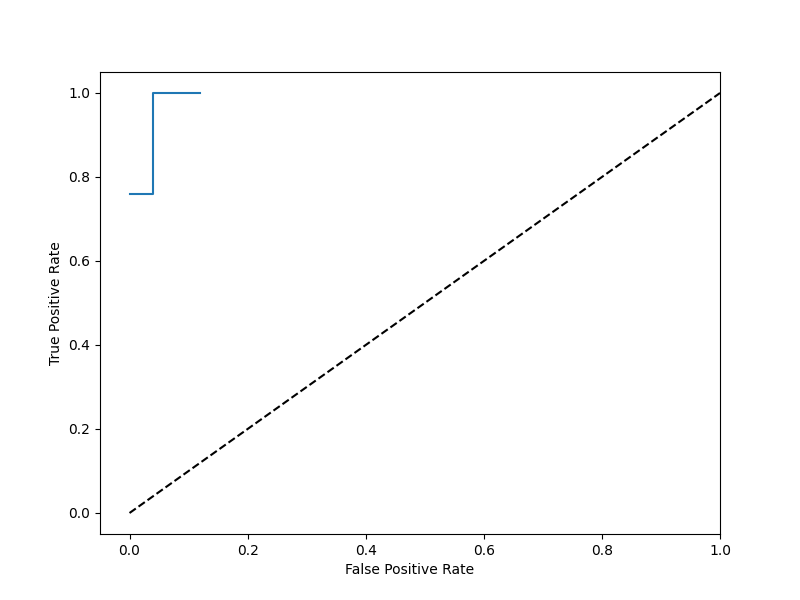
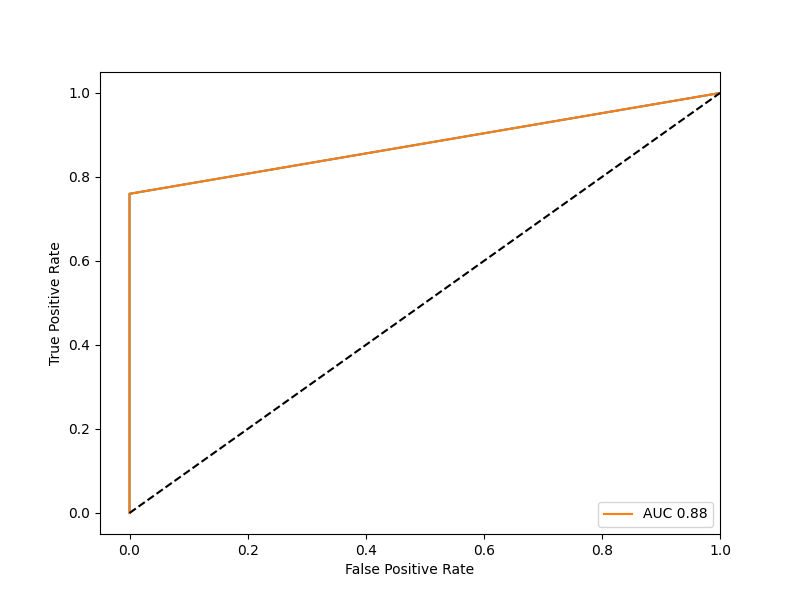
suka bledddddddd

diff --git a/hw2/main.py b/hw2/main.py
@@ -136,17 +136,19 @@ step1 = LDA(np.array([i[:] for i in train_datas]), np.array([len(i) for i in tra
 print("step1:" ,step1)
 tpr = []
 fpr = []
-for i in np.arange(0.01,10,0.01):
+for i in np.arange(0.000000001,1000000,10):
     tp,tn,fp,fn = step1.get_tp_tn_fp_fn(np.array([i[:] for i in test_datas]), np.array([len(i) for i in test_datas]), i)
     tpr.append(tp/(tp+fn))
     fpr.append(fp/(fp+tn))
 plt.figure(figsize=(8, 6))
 plt.plot(fpr, tpr)
+plt.plot(fpr, tpr, label=f'AUC {-round(np.trapz(tpr, fpr), 2)}')
 plt.plot([0, 1], [0, 1], 'k--')
 plt.xlim([-0.05, 1.0])
 plt.ylim([-0.05, 1.05])
 plt.xlabel('False Positive Rate')
 plt.ylabel('True Positive Rate')
+plt.legend(loc="lower right")
 plt.savefig("step1.png")
 plt.clf()
 step3 = LDA(np.array([i[2:] for i in train_datas]), np.array([len(i) for i in train_datas]))
@@ -154,34 +156,37 @@ step2 = LDA(np.array([i[:2] for i in train_datas]), np.array([len(i) for i in tr
 print("step2:",step2)
 tpr = []
 fpr = []
-for i in np.arange(0.0001,10000,0.1):
+for i in np.arange(0.01,100,0.01):
     tp,tn,fp,fn = step2.get_tp_tn_fp_fn(np.array([i[:2] for i in test_datas]), np.array([len(i) for i in test_datas]), i)
     tpr.append(tp/(tp+fn))
     fpr.append(fp/(fp+tn))
 plt.figure(figsize=(8, 6))
-plt.plot(fpr, tpr)
+plt.plot(fpr, tpr, label=f'AUC {-round(np.trapz(tpr, fpr), 2)}')
 plt.plot([0, 1], [0, 1], 'k--')
 plt.xlim([-0.05, 1.0])
 plt.ylim([-0.05, 1.05])
 plt.xlabel('False Positive Rate')
 plt.ylabel('True Positive Rate')
+plt.legend(loc="lower right")
 plt.savefig("step2.png")
 plt.clf()
 step3 = LDA(np.array([i[2:] for i in train_datas]), np.array([len(i) for i in train_datas]))
 print("step3:",step3)
 tpr = []
 fpr = []
-for i in np.arange(0.00001,10000,0.1):
+for i in np.arange(0.0000001,100000,1):
     tp,tn,fp,fn = step3.get_tp_tn_fp_fn(np.array([i[2:] for i in test_datas]), np.array([len(i) for i in test_datas]), i)
     tpr.append(tp/(tp+fn))
     fpr.append(fp/(fp+tn))
 plt.figure(figsize=(8, 6))
 plt.plot(fpr, tpr)
+plt.plot(fpr, tpr, label=f'AUC {-round(np.trapz(tpr, fpr), 2)}')
 plt.plot([0, 1], [0, 1], 'k--')
 plt.xlim([-0.05, 1.0])
 plt.ylim([-0.05, 1.05])
 plt.xlabel('False Positive Rate')
 plt.ylabel('True Positive Rate')
+plt.legend(loc="lower right")
 plt.savefig("step3.png")
 plt.clf()
 
